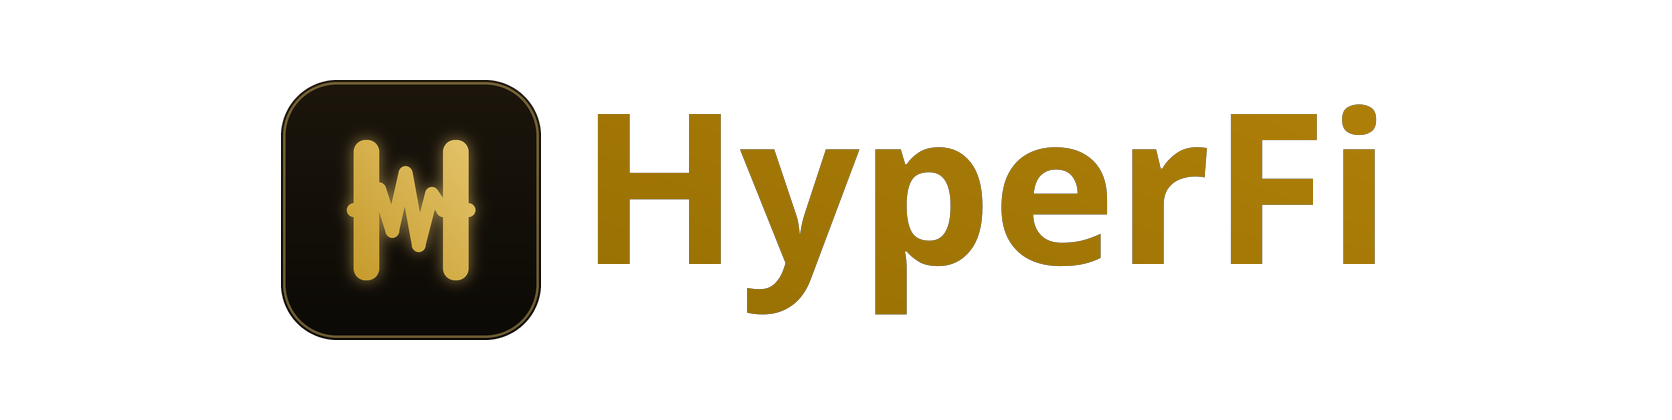
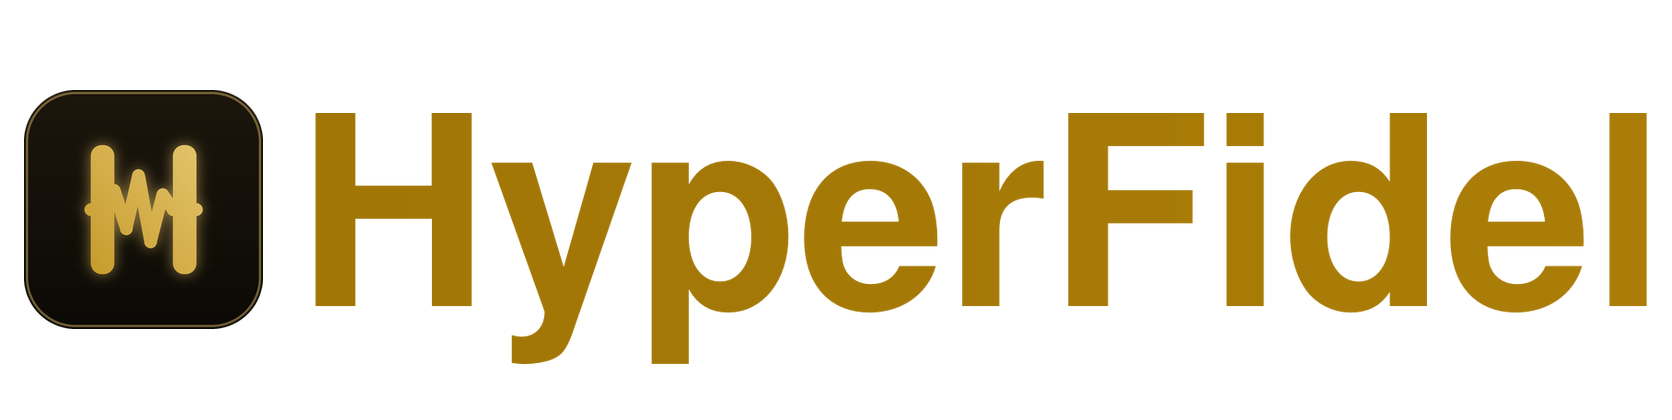
Remove the old HyperFi package and redraw the wordmark
The desktop packages installed alongside the previous HyperFi installation
because hyperfidel and hyperfi own different paths. Declare Replaces, Conflicts
and Provides (and the Arch replaces entry) so installing HyperFidel removes the
HyperFi package instead of leaving two players installed.

The logo images had the old name drawn into their pixels, so the rename left
HyperFi visible in the website banner, the dashboard header and the About
window. Redraw the word with the original typography and replace the leftover
Orynivo website icon with the current gold mark.

diff --git a/CHANGELOG.md b/CHANGELOG.md
@@ -8,6 +8,10 @@ The format is based on [Keep a Changelog](https://keepachangelog.com/en/1.1.0/).
 
 ### Added
 
+- The desktop `hyperfidel` packages now replace and provide the previous
+  `hyperfi` package, so installing HyperFidel removes the HyperFi installation
+  instead of leaving both players installed side by side. The same applies to
+  the `hyperfidel-server` packages and `hyperfi-server`.
 - HyperFidel Server packages replace the previous `hyperfi-server` package, and
   an upgrade stops the old units, adopts `/etc/hyperfi-server`, moves the
   database, caches and artwork from `/var/lib/hyperfi-server`, and retires the
